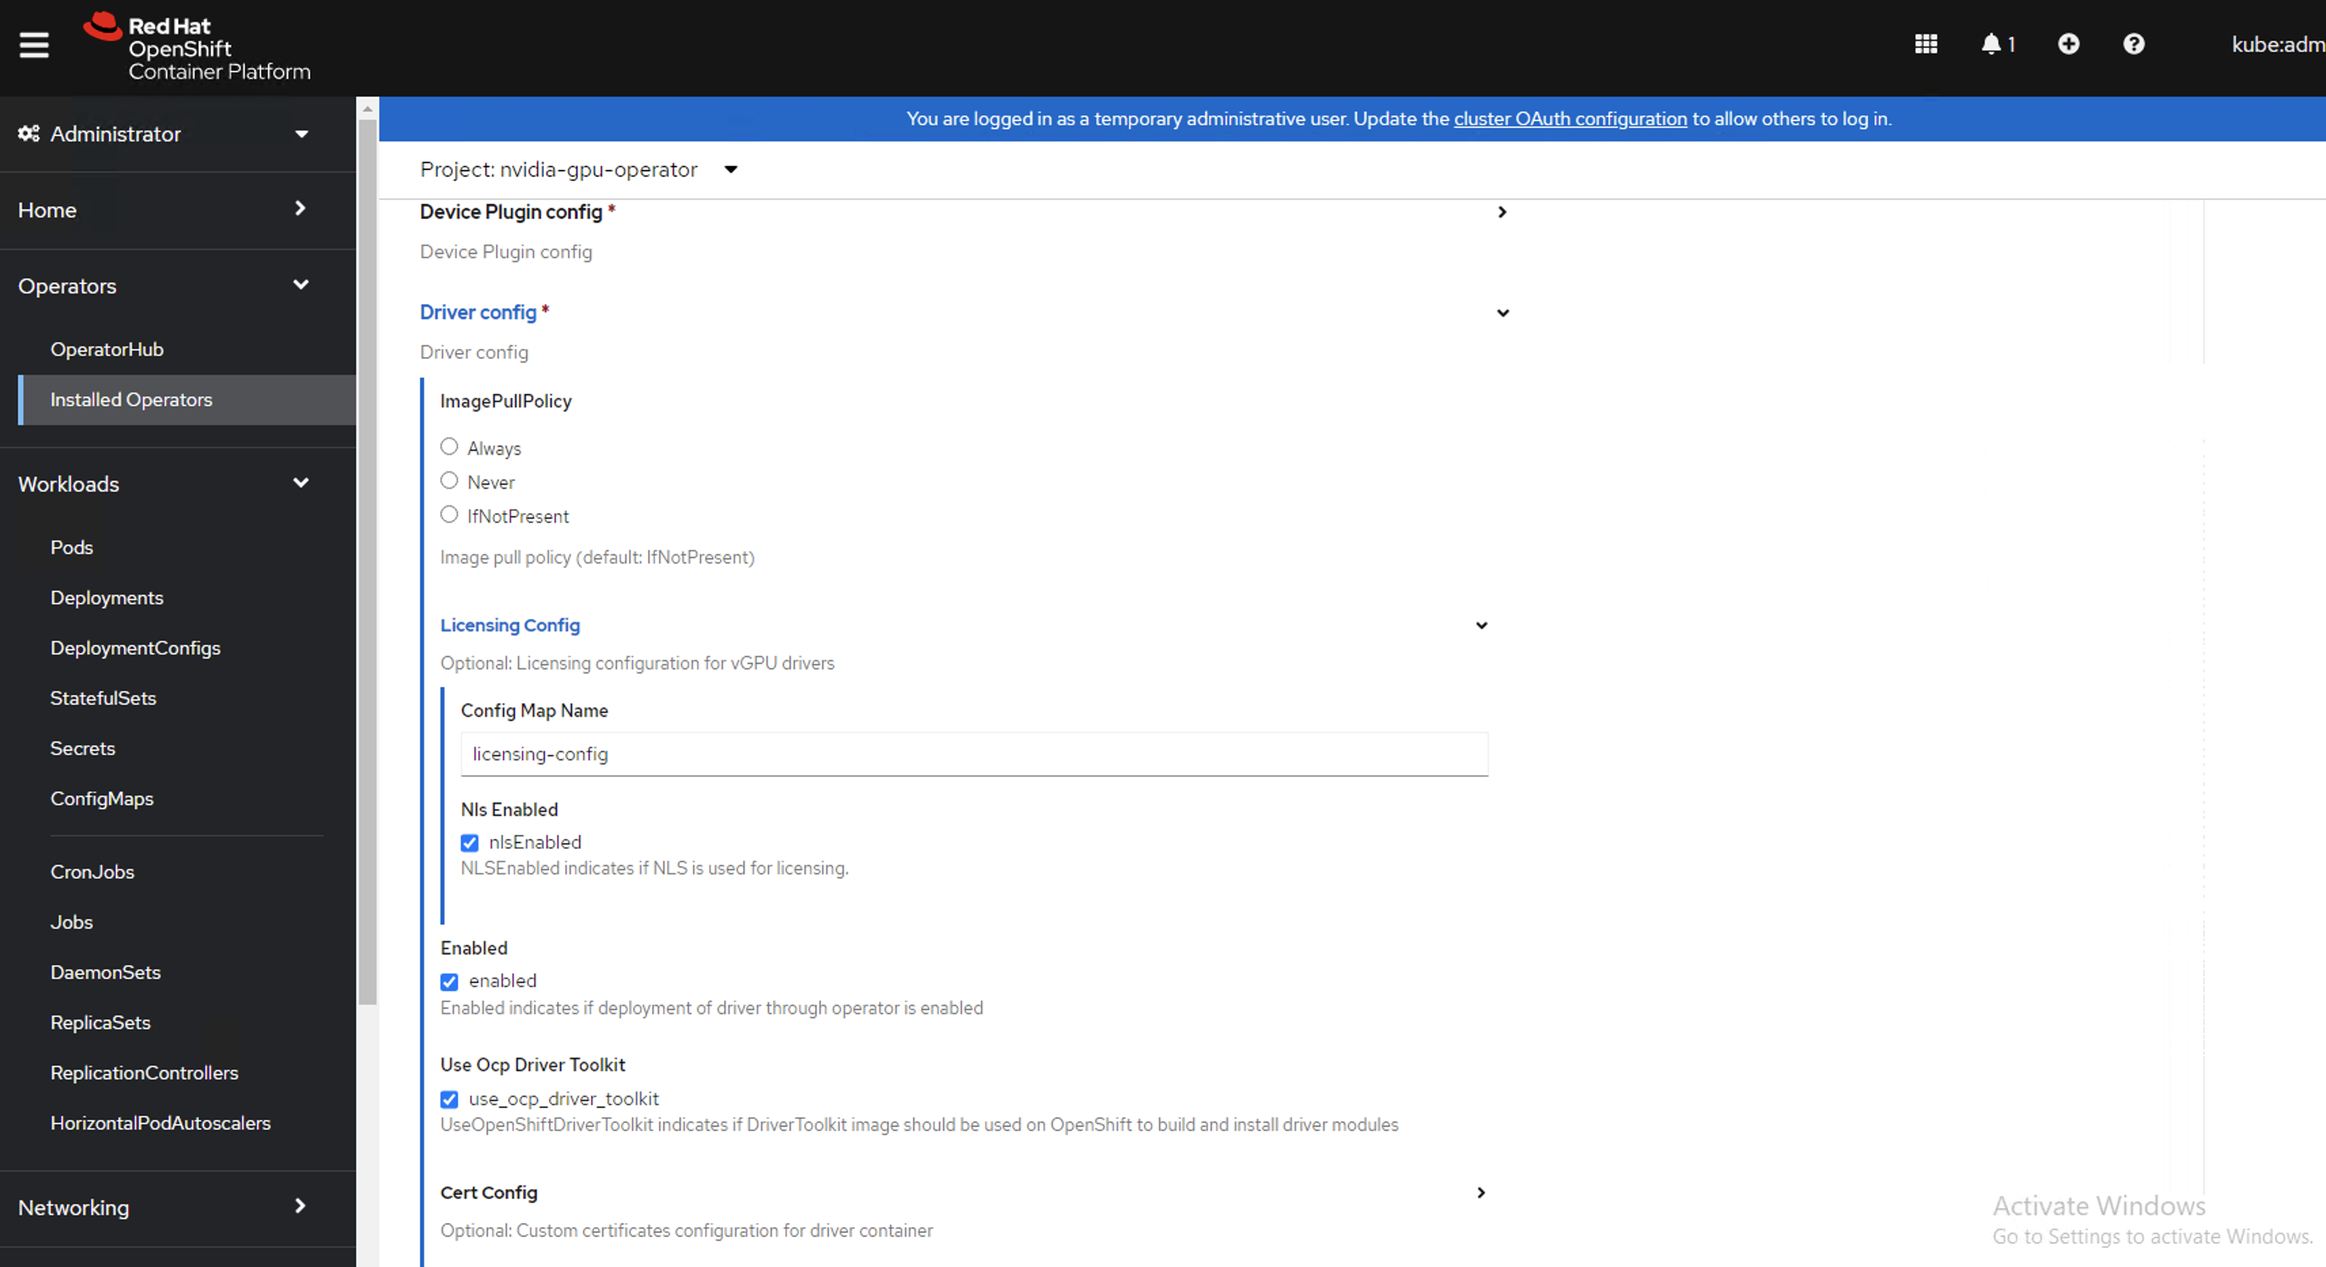
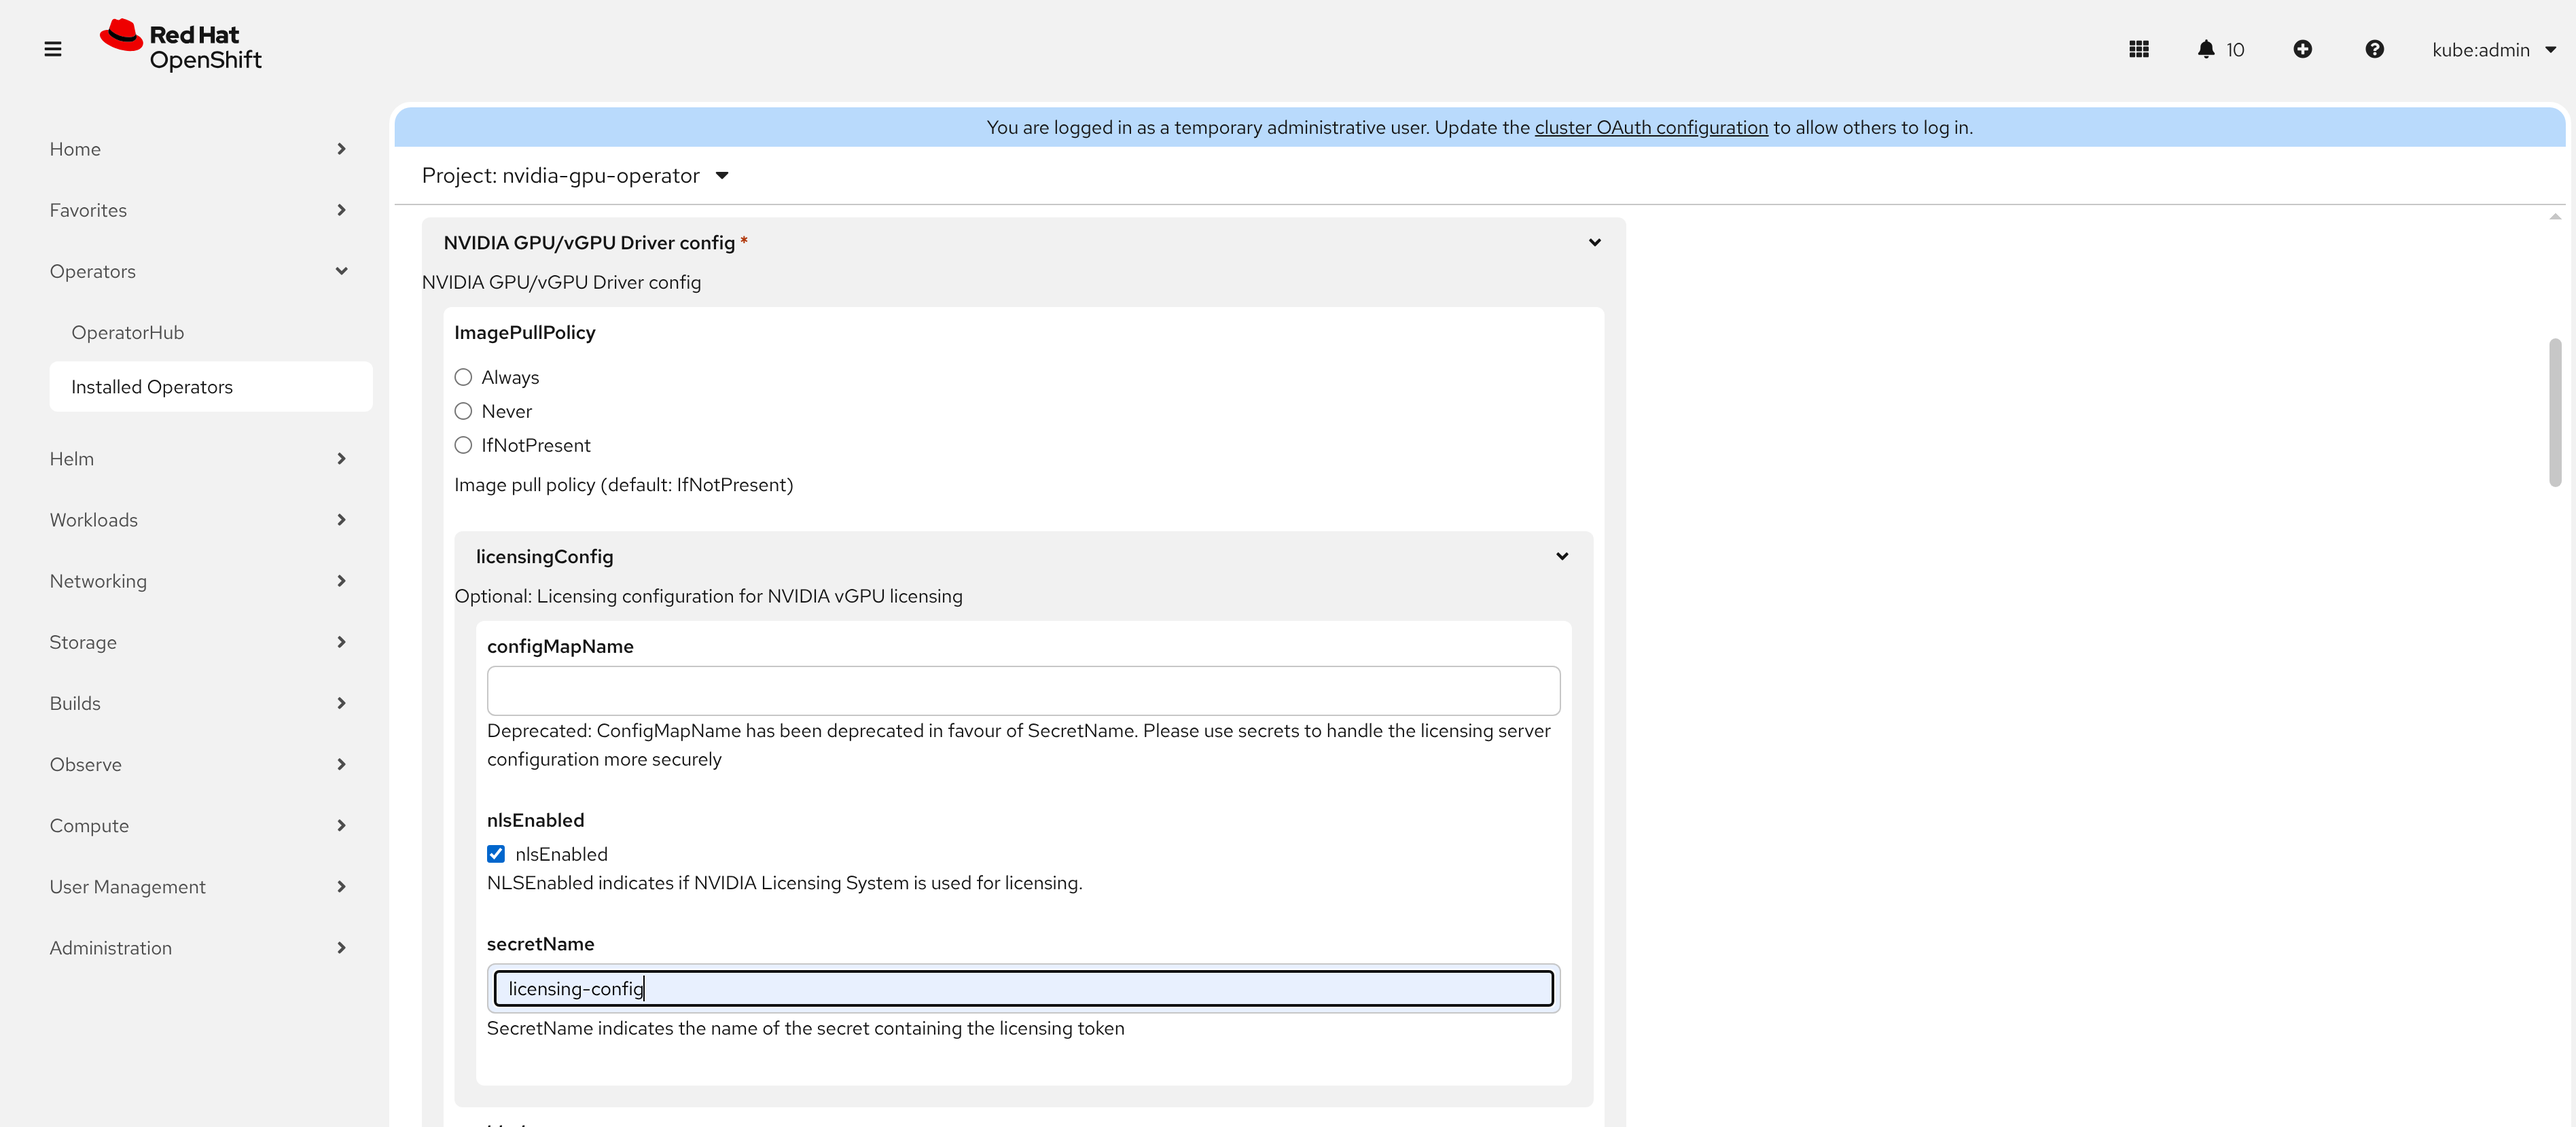
Update OpenShift documentation to use a secret for licensing (#306)

diff --git a/openshift/install-gpu-ocp.rst b/openshift/install-gpu-ocp.rst
@@ -14,7 +14,6 @@ Installing the NVIDIA GPU Operator by using the web console
 #. In the OpenShift Container Platform web console, from the side menu, navigate to **Operators** > **OperatorHub** and select **All Projects**.
 
 #. In **Operators** > **OperatorHub**, search for the **NVIDIA GPU Operator**. For additional information, refer to the `Red Hat OpenShift Container Platform documentation <https://docs.openshift.com/container-platform/latest/operators/admin/olm-adding-operators-to-cluster.html>`_.
-#. In **Operators** > **OperatorHub**, search for the **NVIDIA GPU Operator**. For additional information, refer to the `Red Hat OpenShift Container Platform documentation <https://docs.openshift.com/container-platform/latest/operators/admin/olm-adding-operators-to-cluster.html>`_.
 
 #. Select the **NVIDIA GPU Operator**, click **Install**. In the following screen, click **Install**.
 
@@ -263,7 +262,32 @@ Create the ClusterPolicy instance with NVIDIA vGPU
 Prerequisites
 --------------
 
-* Refer to the :ref:`install-gpu-operator-vgpu` section for prerequisite steps for using NVIDIA vGPU on Red Hat OpenShift.
+Before creating the ClusterPolicy for NVIDIA vGPU, ensure the following:
+
+* Refer to the :ref:`install-gpu-operator-vgpu` section for detailed prerequisite steps, including building the vGPU driver container image and obtaining licensing files.
+
+* Create a licensing secret in the ``nvidia-gpu-operator`` namespace:
+
+  .. code-block:: console
+
+     $ oc create secret generic licensing-config \
+         -n nvidia-gpu-operator --from-file=gridd.conf --from-file=client_configuration_token.tok
+
+  .. note::
+
+     Using a Kubernetes Secret to store licensing information is the recommended approach.
+     The ``configMap`` option is deprecated and will be removed in a future release.
+
+* If your private registry requires authentication, create an image pull secret:
+
+  .. code-block:: console
+
+     $ oc create secret docker-registry registry-secret \
+         --docker-server=<private-registry-url> \
+         --docker-username=<username> \
+         --docker-password=<password> \
+         --docker-email=<email-id> \
+         -n nvidia-gpu-operator
 
 Create the cluster policy using the web console
 -----------------------------------------------
@@ -272,7 +296,11 @@ Create the cluster policy using the web console
 
 #. Select the **ClusterPolicy** tab, then click **Create ClusterPolicy**. The platform assigns the default name *gpu-cluster-policy*.
 
-#. Provide the name of the licensing ``ConfigMap`` under the **Driver** section. This should be created during the prerequisite steps for NVIDIA vGPU. Refer to the following screenshots for examples and modify values accordingly.
+#. Provide the name of the licensing ``Secret`` under the **Driver** section. This should be created during the prerequisite steps for NVIDIA vGPU (for example, ``licensing-config``). Refer to the following screenshots for examples and modify values accordingly.
+
+   .. note::
+
+      The ``ConfigMap`` option is deprecated. Use a Kubernetes ``Secret`` to store licensing information instead.
 
    .. image:: graphics/cluster_policy_vgpu_1.png
 
@@ -305,13 +333,18 @@ Create the cluster policy using the CLI
          "driver": {
               "repository": "<repository-path>",
               "image": "driver",
-              "imagePullSecrets": [],
+              "imagePullSecrets": ["registry-secret"],
               "licensingConfig": {
-                "configMapName": "licensing-config",
+                "secretName": "licensing-config",
                 "nlsEnabled": true
               },
-              "version": "470.82.01"
+              "version": "580.95.05"
          }
+
+   .. note::
+
+      Using ``secretName`` to reference a Kubernetes Secret is the recommended approach.
+      The ``configMapName`` option is deprecated and will be removed in a future release.
 
    .. code-block:: console
 
